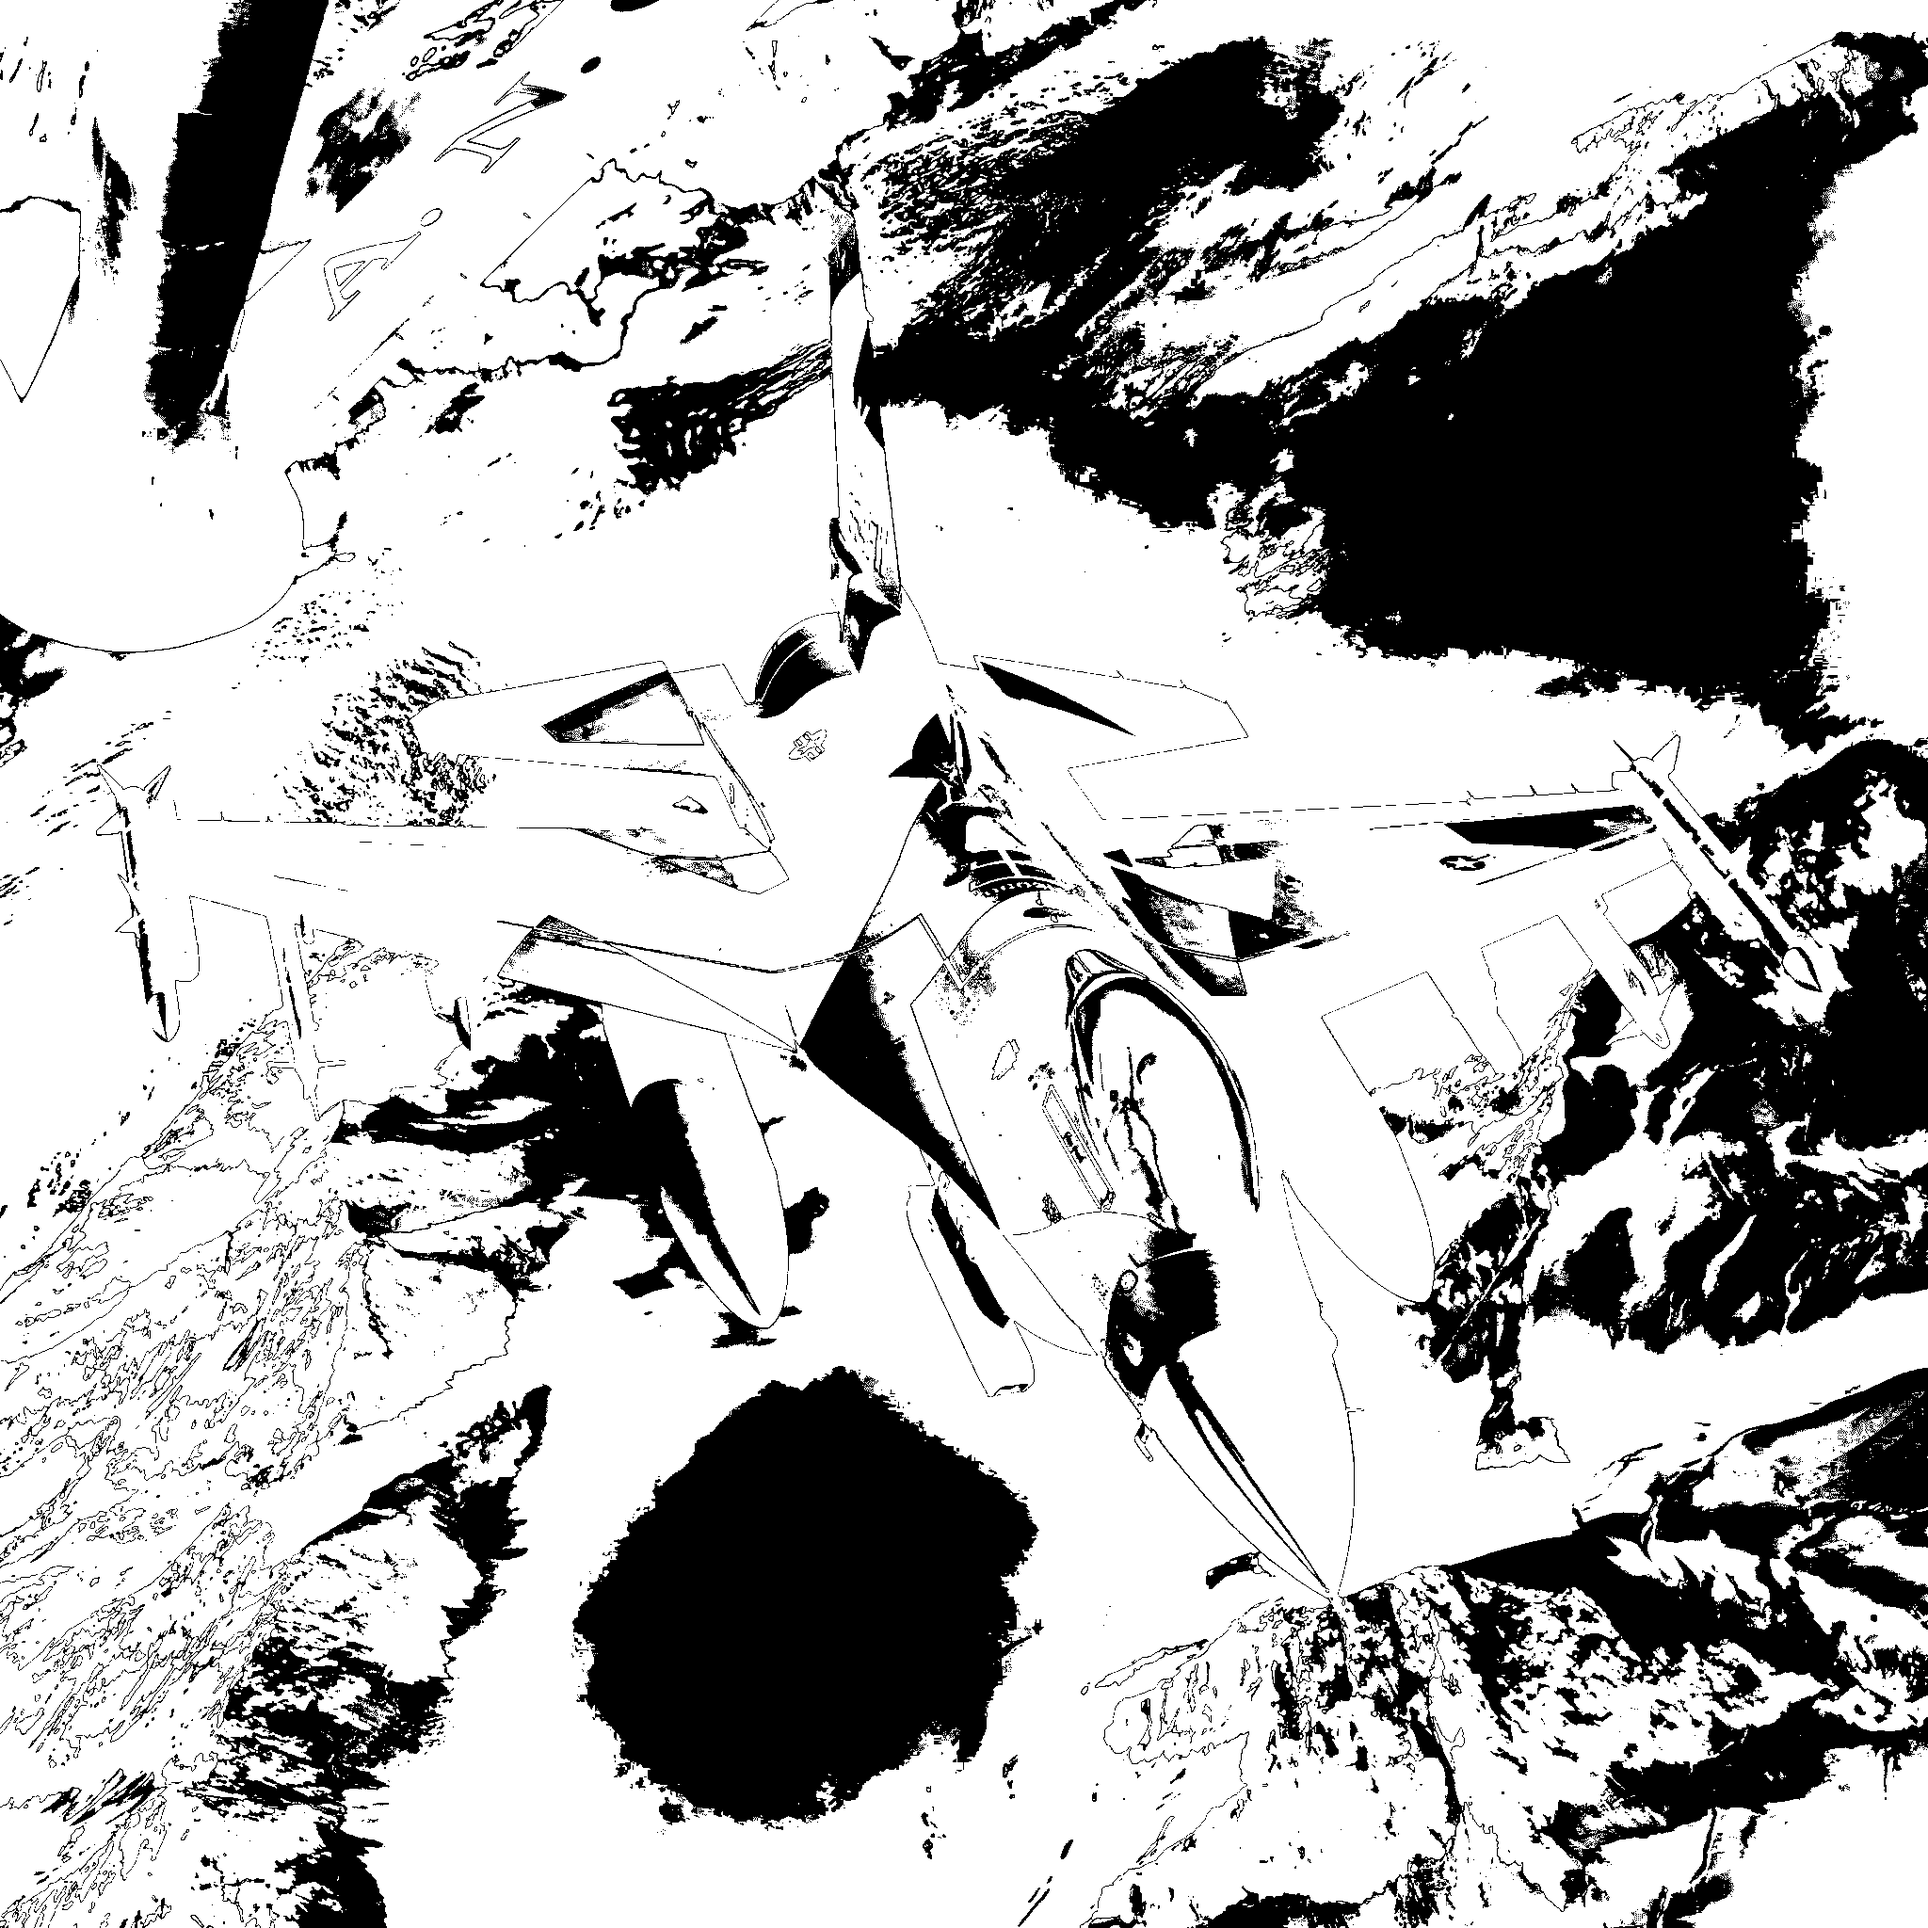
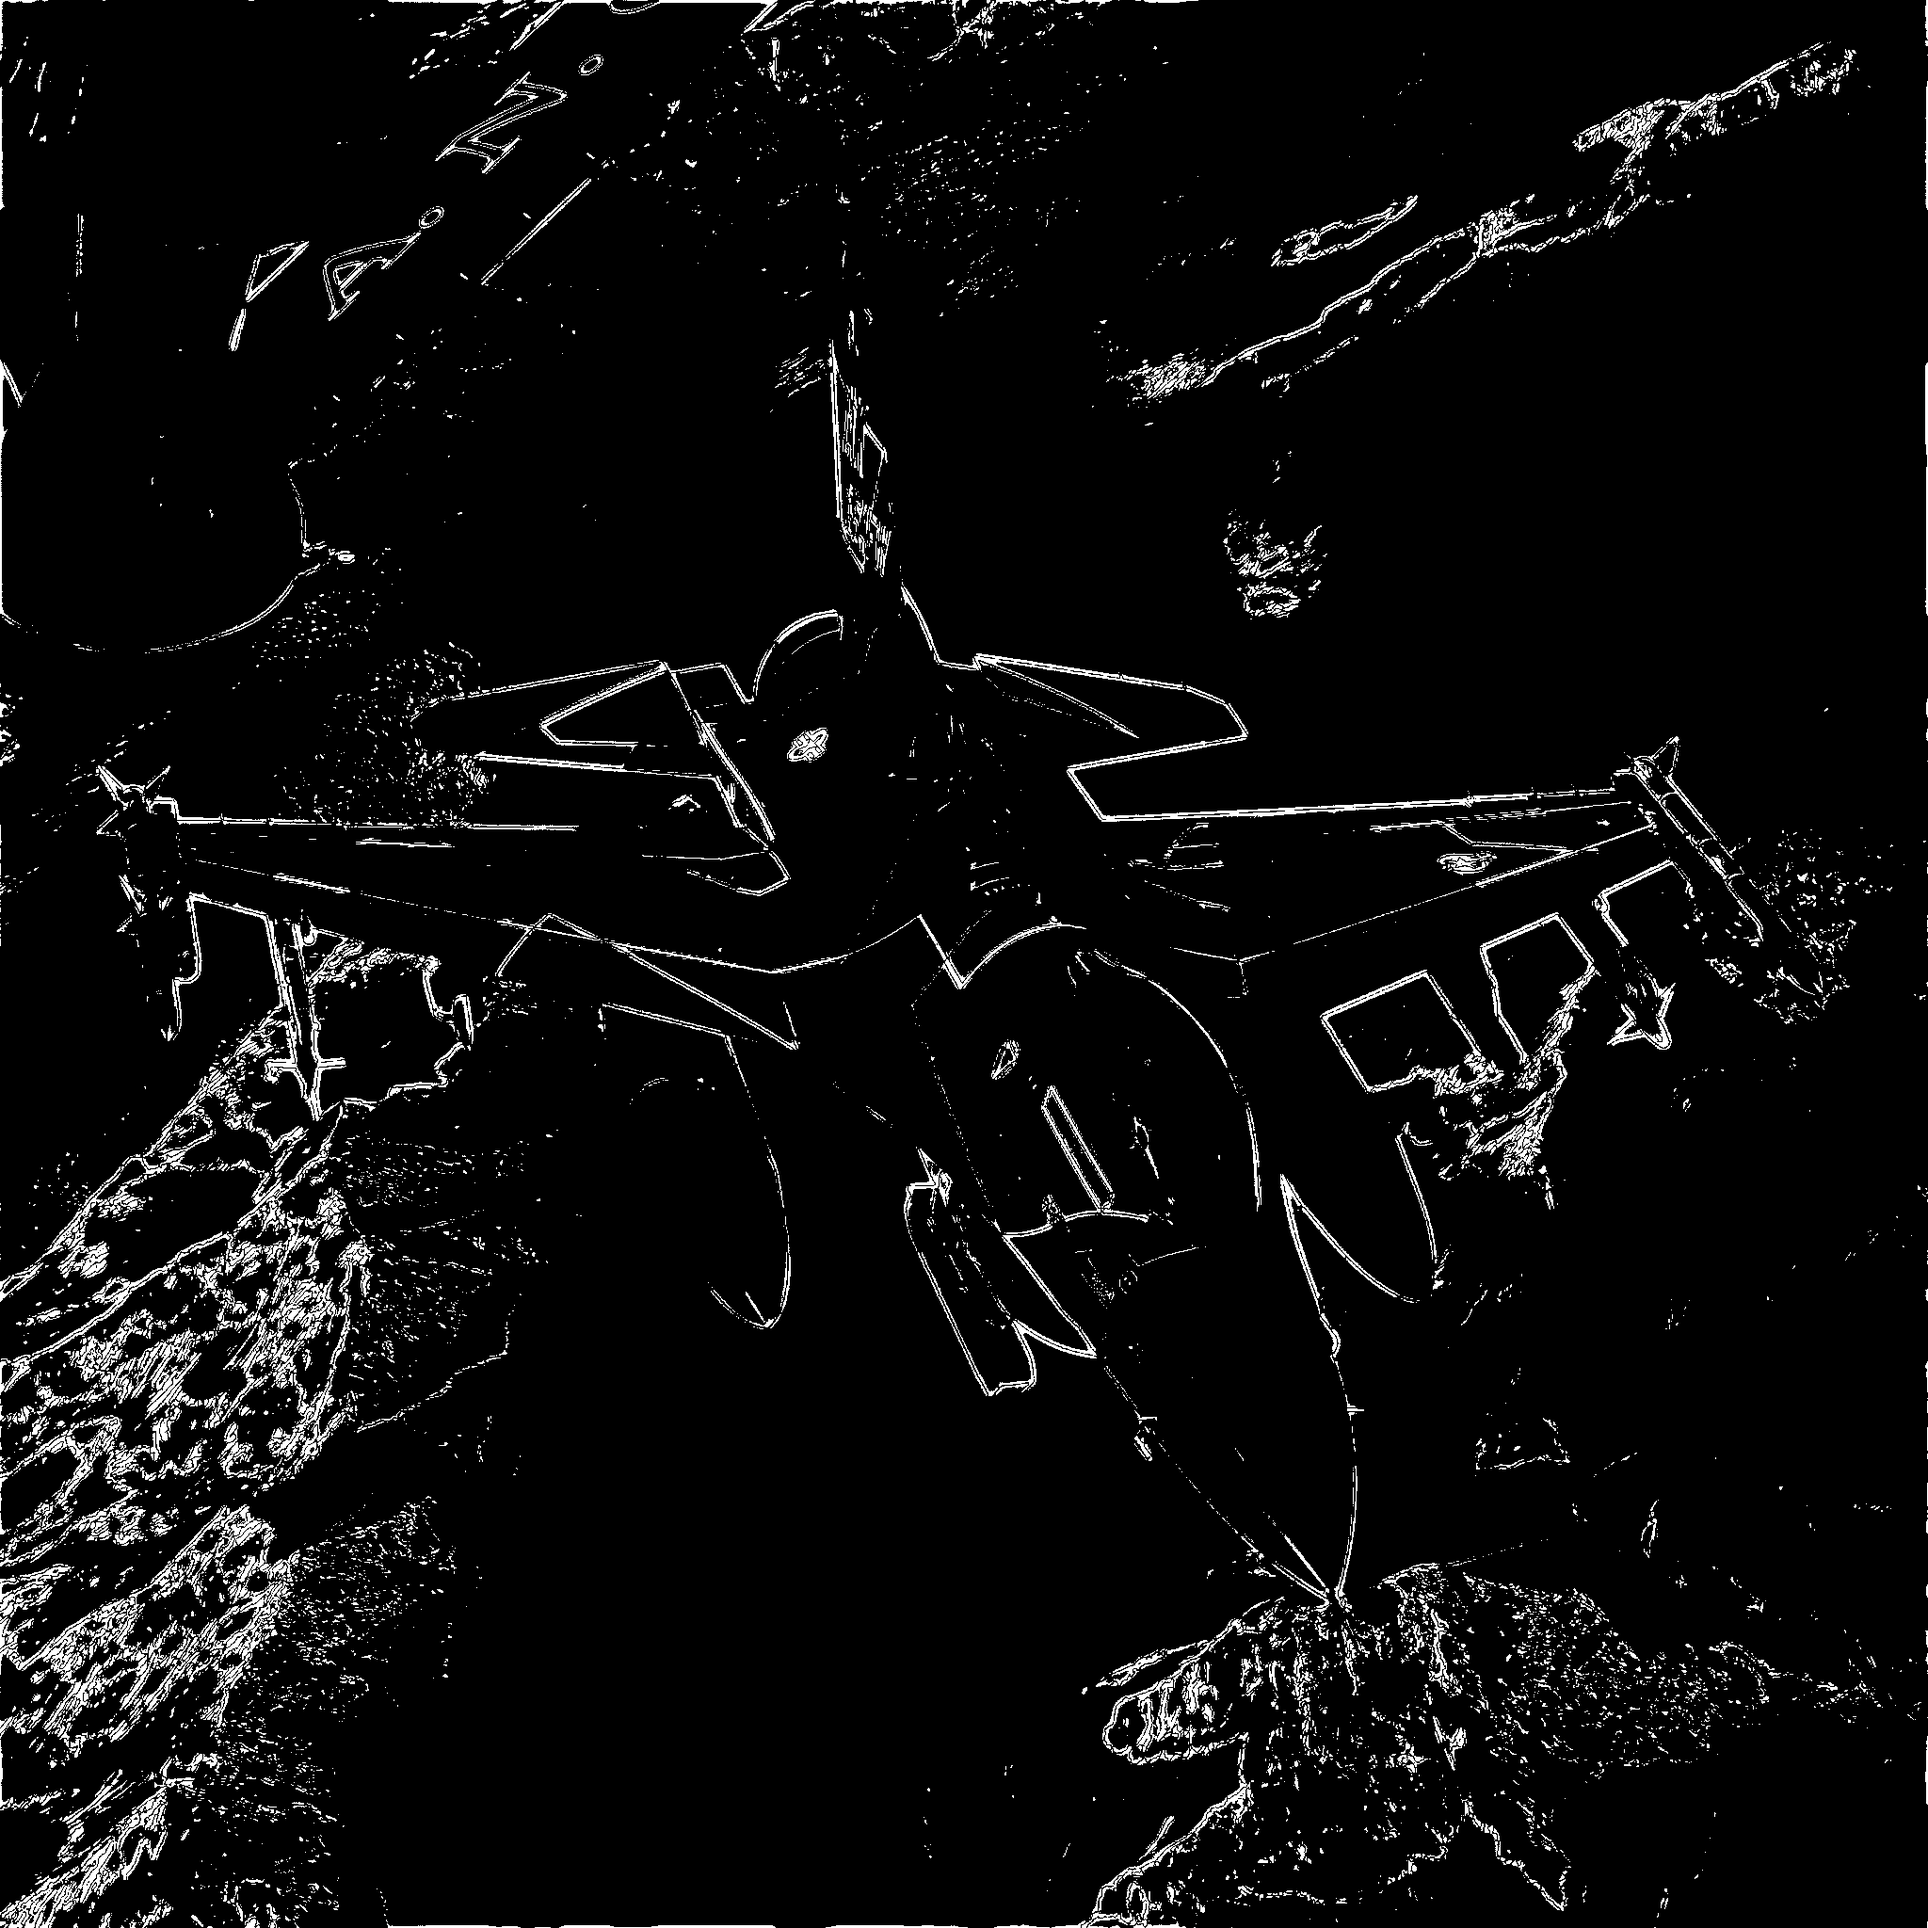
v2

diff --git a/Solution.c b/Solution.c
@@ -1220,7 +1220,7 @@ int main() {
     process_image("./IMAGES/8x8.png", "./FFT/8x8.png", "./EDGES/8x8.png", 2.0f, 0.15f);
     process_image("./IMAGES/8x8-2.png", "./FFT/8x8-2.png", "./EDGES/8x8-2.png", 2.0f, 0.15f);
     process_image("./IMAGES/16x16.png", "./FFT/16x16.png", "./EDGES/16x16.png", 2.0f, 0.15f);
-    process_image("./IMAGES/OIP.png", "./FFT/OIP.png", "./EDGES/OIP.png", 2.0f, 0.15f);
+    process_image("./IMAGES/OIP.png", "./FFT/OIP.png", "./EDGES/OIP.png", 100.0f, 0.20f);
     process_image("./IMAGES/R.png", "./FFT/R.png", "./EDGES/R.png", 2.0f, 0.15f);
 
     return 0;
